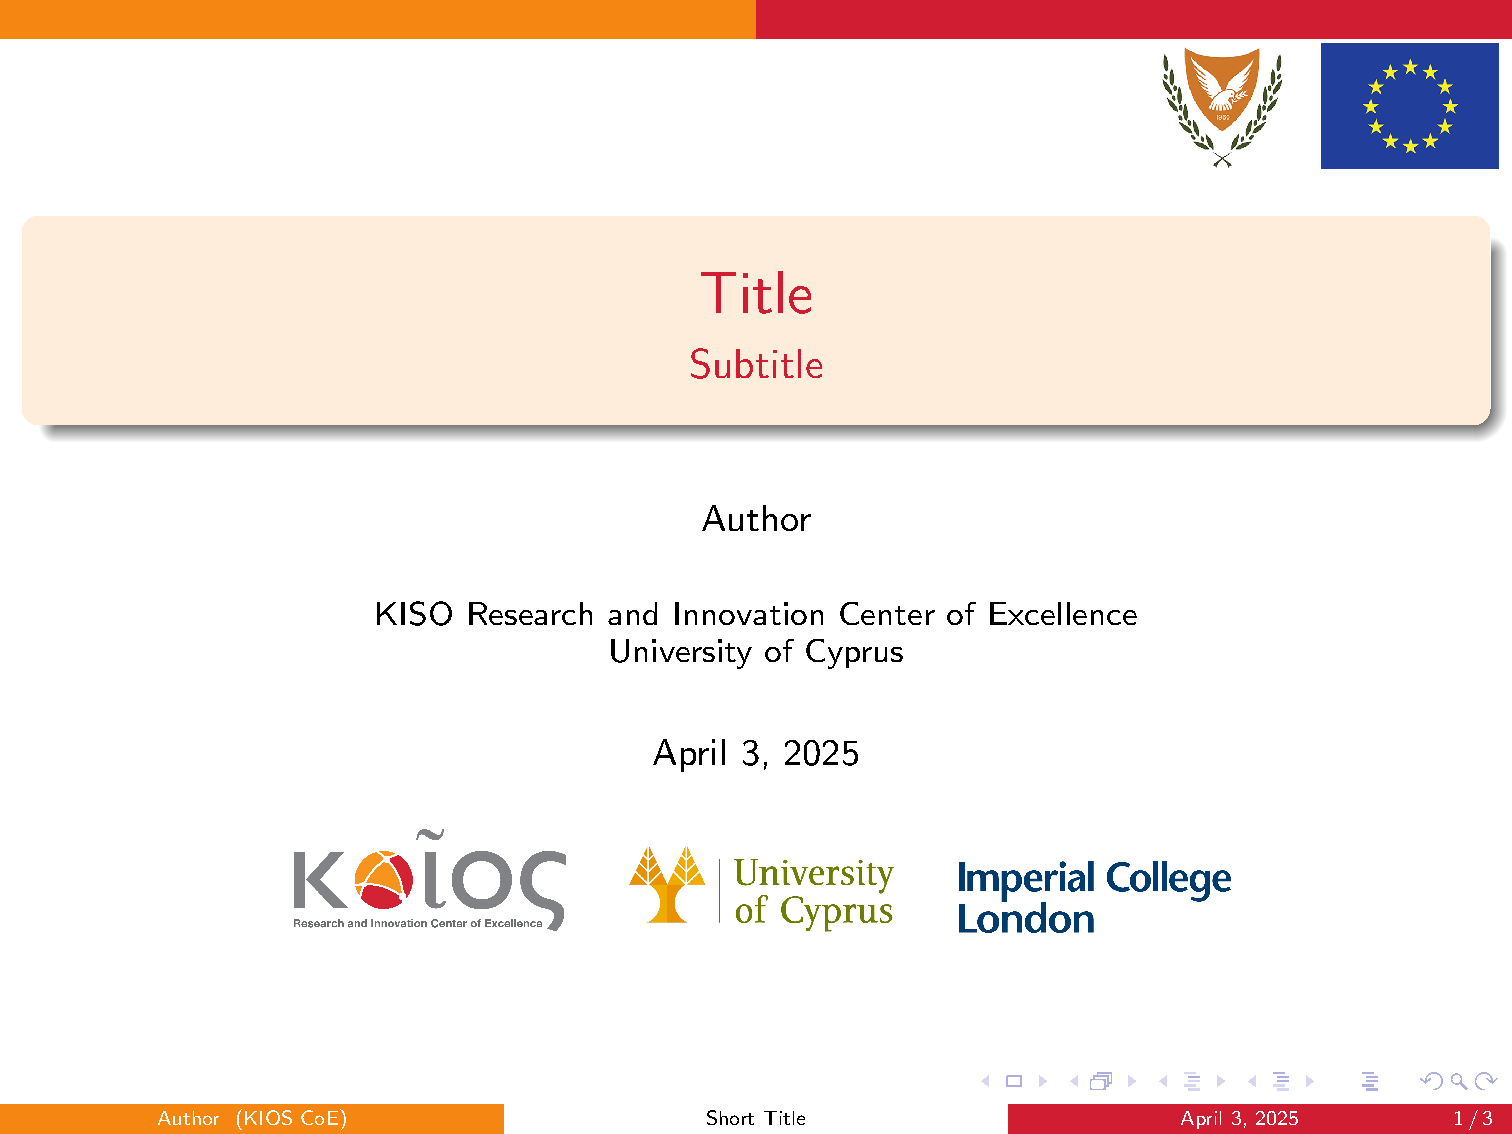
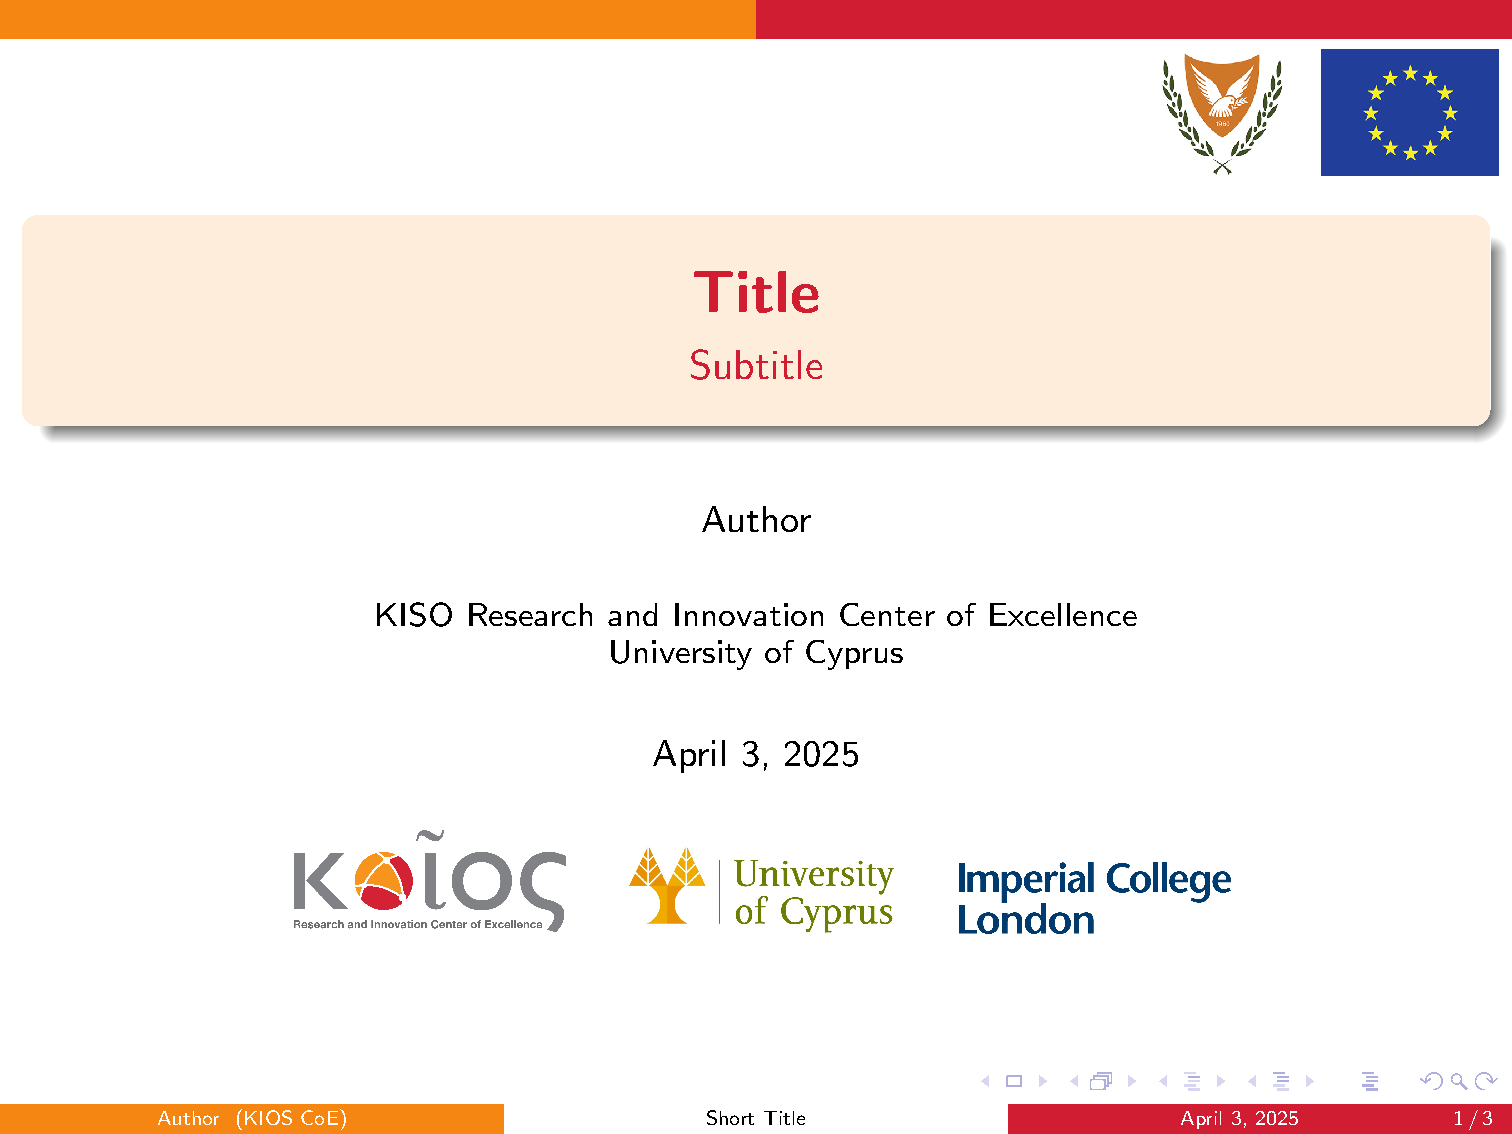
update

diff --git a/main.tex b/main.tex
@@ -1,6 +1,3 @@
-% Author: Xiaohan Chen
-% Time: 04.02.2025
-
 \documentclass[9pt]{beamer}
 \usetheme{CambridgeUS}
 \usefonttheme{default}
@@ -36,8 +33,8 @@
 
 \setbeamercolor{title}{fg=kiosred, bg=white!85!kiosorange}      % Title color
 \setbeamercolor{subtitle}{fg=kiosred, bg=white}     % Subtitle color
-\setbeamerfont{title}{size=\huge}       % Title font (size/weight)
-\setbeamerfont{subtitle}{size=\large} % Subtitle font
+\setbeamerfont{title}{size=\huge, series=\bfseries}       % Title font (size/weight)
+\setbeamerfont{subtitle}{size=\large, series=\mdseries} % Subtitle font
 \setbeamerfont{institute}{size=\small}
 \setbeamerfont{frametitle}{size=\Large, series=\bfseries}
 \setbeamerfont{framesubtitle}{size=\large, series=\mdseries}

diff --git a/readme.md b/readme.md
@@ -1,3 +1,3 @@
 ## [KIOS](https://www.kios.ucy.ac.cy/) LaTex Beamer Template
 
-![](titlepage.png)
+![](./imgs/titlepage.png)
